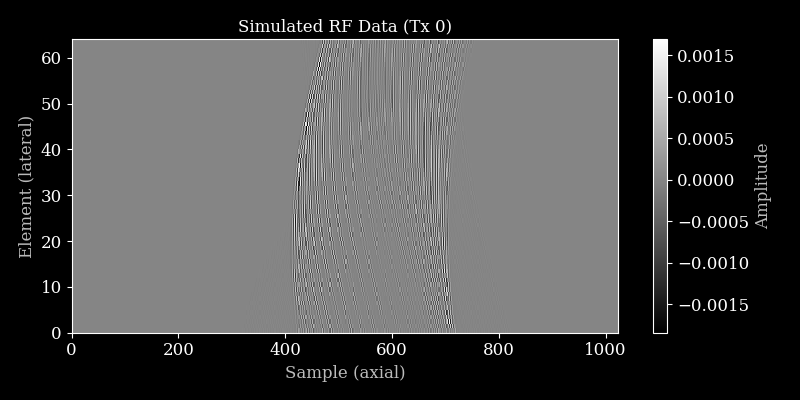
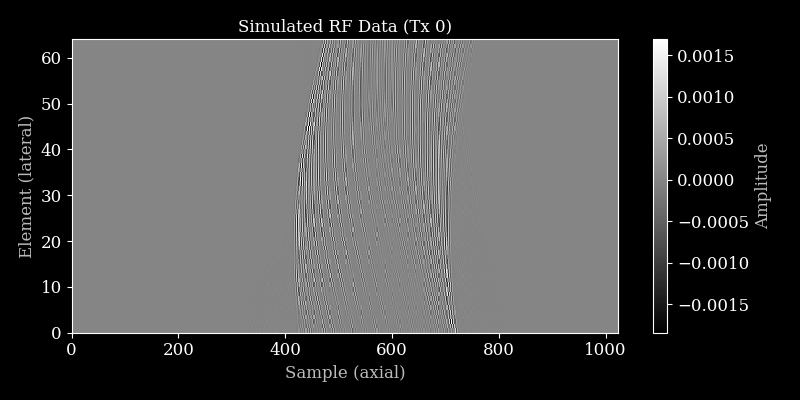
Implemented factored simulator

Changed region(s): [[0.3438, 0.09, 0.5938, 0.84]]

diff --git a/zea/simulator.py b/zea/simulator.py
@@ -66,6 +66,7 @@ def simulate_rf(
     attenuation_coef,
     tx_apodizations,
     t_peak,
+    factored=True,
 ):
     """
     Simulates RF data for a given set of scatterers.
@@ -89,9 +90,12 @@ def simulate_rf(
         tx_apodizations (array-like): The apodizations of the transmitting elements of
             shape (n_tx, n_el).
         t_peak (array-like): The time of the peak of the transmit pulse [s] of shape (n_tx,).
+        factored (bool): Approximate the geometric spreading with a factorizable term. Slight
+            amplitude error for scatterers near a large linear probe, but much faster.
 
     Returns:
         rf_data (array-like): The simulated RF data of shape (n_tx, n_ax, n_el, 1).
+
     """
 
     n_tx = t0_delays.shape[0]
@@ -143,17 +147,6 @@ def simulate_rf(
     for tx in range(n_tx):
         tx_idx = ops.array(tx)
 
-        # [n_scat, n_txel, rxel]
-        dist_total = dist[:, None] + dist[:, :, None]
-
-        # [n_scat, n_txel, n_rxel]
-        tau_total = (
-            (dist_total / sound_speed)
-            + t0_delays[tx_idx][None, :, None]
-            - initial_times[tx_idx]
-            + t_peak[tx_idx]
-        )
-
         scat_pos_relative_to_probe = scatterer_positions[:, None] - probe_geometry[None]
 
         # Compute 3D directivity
@@ -173,51 +166,108 @@ def simulate_rf(
             element_width,
             sound_speed,
         )
-        directivity_rx = directivity(
-            freqs[None, None, None],
-            theta[:, None, :, None],
-            element_width,
-            sound_speed,
-        ) * directivity(
-            freqs[None, None, None],
-            phi[:, None, :, None],
-            element_width,
-            sound_speed,
-        )
+        if factored:
+            # [n_scat, n_el, n_freq]
+            attenuation = attenuate(
+                freqs[None, None],
+                attenuation_coef=attenuation_coef,
+                dist=dist[..., None],
+            )
 
-        attenuation = attenuate(
-            freqs[None, None, None],
-            attenuation_coef=attenuation_coef,
-            dist=dist_total[..., None],
-        )
+            # sqrt such that one_way * other_way together yield mindist/(2sqrt(d_tx*d_rx))
+            spread_atten = ops.sqrt(spread(2 * dist[..., None]))
 
-        spread_atten = spread(dist_total[..., None])
-
-        result = (
-            waveform_spectrum[None, None, None]
-            * delay2(
-                freqs[None, None, None],
-                tau_total[..., None],
+            one_way_response = ops.cast(
+                directivity_tx[:, :, 0] * attenuation * spread_atten,
+                "complex64",
+            ) * delay2(
+                freqs[None, None],
+                dist[..., None] / sound_speed,
                 n_fft=n_ax_rounded,
                 sampling_frequency=sampling_frequency,
             )
-            * ops.cast(
-                scatterer_magnitudes[:, None, None, None]
-                * tx_apodizations[tx, None, :, None, None]
-                * directivity_tx
-                * directivity_rx
-                * attenuation
-                * spread_atten,
-                "complex64",
+
+            # When each element fires, relative to the start of the recording. [n_txel, 1]
+            tx_firing_times = t0_delays[tx][:, None] - initial_times[tx] + t_peak[tx]
+
+            # Apodization and firing phase per transmitting element. [n_txel, n_freq]
+            tx_element_weights = ops.cast(tx_apodizations[tx][:, None], "complex64") * delay2(
+                freqs[None],
+                tx_firing_times,
+                n_fft=n_ax_rounded,
+                sampling_frequency=sampling_frequency,
             )
-        )
 
-        # Sum over all transmitting elements and scatterers
-        result = ops.sum(result, axis=[0, 1])
+            # necessary because delay2 never sees the full round-trip distance in this branch
+            record_length = n_ax_rounded / sampling_frequency
+            round_trip_time = 2 * ops.mean(dist, axis=1) / sound_speed + ops.mean(tx_firing_times)
+            within_record = ops.cast(round_trip_time < record_length, "float32")
+            magnitudes = scatterer_magnitudes * within_record
 
-        result = ops.irfft((ops.real(result), ops.imag(result)))
+            # Explicitly sum over tx dimension before the receive axis exists.
+            incident_field = ops.sum(one_way_response * tx_element_weights[None], axis=1)
+            scattered_field = incident_field * ops.cast(magnitudes[:, None], "complex64")
+            received_field = scattered_field[:, None] * one_way_response
+            rf_spectrum = waveform_spectrum * ops.sum(received_field, axis=0)
+            result = ops.irfft((ops.real(rf_spectrum), ops.imag(rf_spectrum)))
+            parts.append(result)
+        else:
+            directivity_rx = directivity(
+                freqs[None, None, None],
+                theta[:, None, :, None],
+                element_width,
+                sound_speed,
+            ) * directivity(
+                freqs[None, None, None],
+                phi[:, None, :, None],
+                element_width,
+                sound_speed,
+            )
 
-        parts.append(result)
+            # [n_scat, n_txel, rxel]
+            dist_total = dist[:, None] + dist[:, :, None]
+
+            # [n_scat, n_txel, n_rxel]
+            tau_total = (
+                (dist_total / sound_speed)
+                + t0_delays[tx_idx][None, :, None]
+                - initial_times[tx_idx]
+                + t_peak[tx_idx]
+            )
+
+            attenuation = attenuate(
+                freqs[None, None, None],
+                attenuation_coef=attenuation_coef,
+                dist=dist_total[..., None],
+            )
+
+            spread_atten = spread(dist_total[..., None])
+
+            result = (
+                waveform_spectrum[None, None, None]
+                * delay2(
+                    freqs[None, None, None],
+                    tau_total[..., None],
+                    n_fft=n_ax_rounded,
+                    sampling_frequency=sampling_frequency,
+                )
+                * ops.cast(
+                    scatterer_magnitudes[:, None, None, None]
+                    * tx_apodizations[tx, None, :, None, None]
+                    * directivity_tx
+                    * directivity_rx
+                    * attenuation
+                    * spread_atten,
+                    "complex64",
+                )
+            )
+
+            # Sum over all transmitting elements and scatterers
+            result = ops.sum(result, axis=[0, 1])
+
+            result = ops.irfft((ops.real(result), ops.imag(result)))
+
+            parts.append(result)
 
     rf_data = ops.stack(parts, axis=0)
     rf_data = ops.transpose(rf_data, (0, 2, 1))

diff --git a/zea/ops/ultrasound.py b/zea/ops/ultrasound.py
@@ -1,3 +1,5 @@
+from functools import partial
+
 import keras
 import numpy as np
 from keras import ops
@@ -32,18 +34,27 @@ from zea.ops.base import Filter, Operation
 from zea.simulator import simulate_rf, simulate_rf_fast
 from zea.utils import canonicalize_axis
 
+simulator_settings = {
+    "exact": partial(simulate_rf, factored=False),
+    "factored": partial(simulate_rf, factored=True),
+    "fast": simulate_rf_fast,
+}
+
 
 @ops_registry("simulate_rf")
 class Simulate(Operation):
     """Simulate RF data.
 
-    Set the static parameter ``fast=True`` to use the faster time-domain
-    simulator :func:`zea.simulator.simulate_rf_fast` instead of the default
-    frequency-domain :func:`zea.simulator.simulate_rf`.
+    Set the static parameter ``method`` to ``"exact"`` for most accurate results. ``"factored"``
+    approximates spread with geometric instead of arithmetic mean so that attenuation factors;
+    this yields 30~500x speedup, but is slightly less accurate close to large probes. ``"fast"``
+    solves in the time domain; faster than ``"factored"`` in some cases, but less accurate.
+    After beamforming, images from ``"factored"`` yield 70~90dB PSNR compared to ``"exact"``;
+    ``"fast"`` yields 10~20dB.
     """
 
     # Define operation-specific static parameters
-    STATIC_PARAMS = ["n_ax", "apply_lens_correction", "fast"]
+    STATIC_PARAMS = ["n_ax", "apply_lens_correction", "method"]
     ADD_OUTPUT_KEYS = ["n_ch"]
 
     def __init__(self, **kwargs):
@@ -70,10 +81,12 @@ class Simulate(Operation):
         attenuation_coef,
         tx_apodizations,
         t_peak,
-        fast=False,
+        method="factored",
         **kwargs,
     ):
-        simulate = simulate_rf_fast if fast else simulate_rf
+        if method not in simulator_settings:
+            raise ValueError(f"method must be one of {tuple(simulator_settings)}, got {method!r}")
+        simulate = simulator_settings[method]
         simulate_kwargs = {
             "probe_geometry": probe_geometry,
             "apply_lens_correction": apply_lens_correction,
